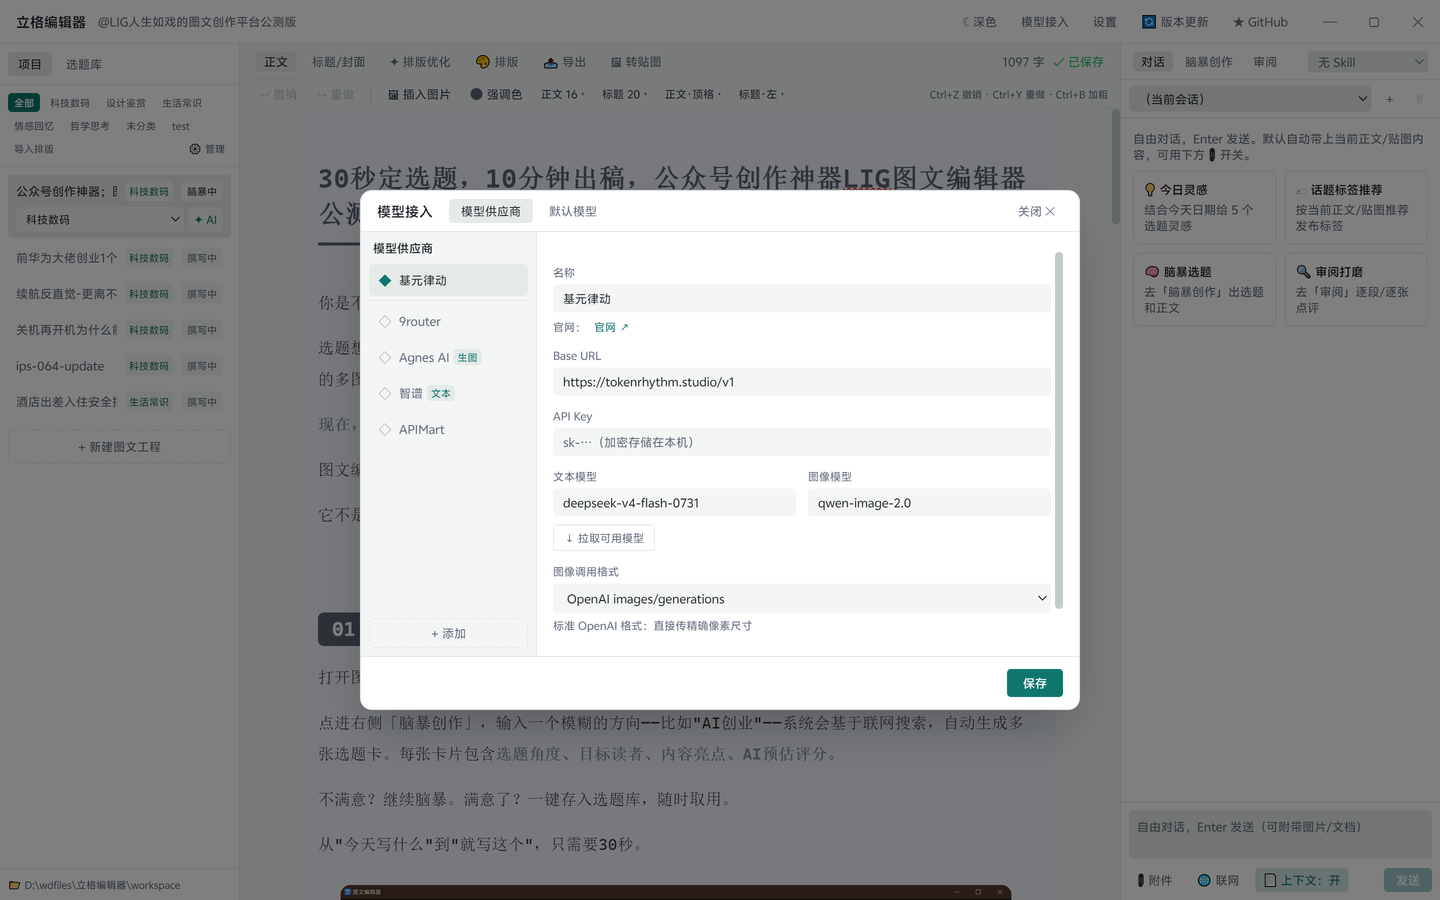
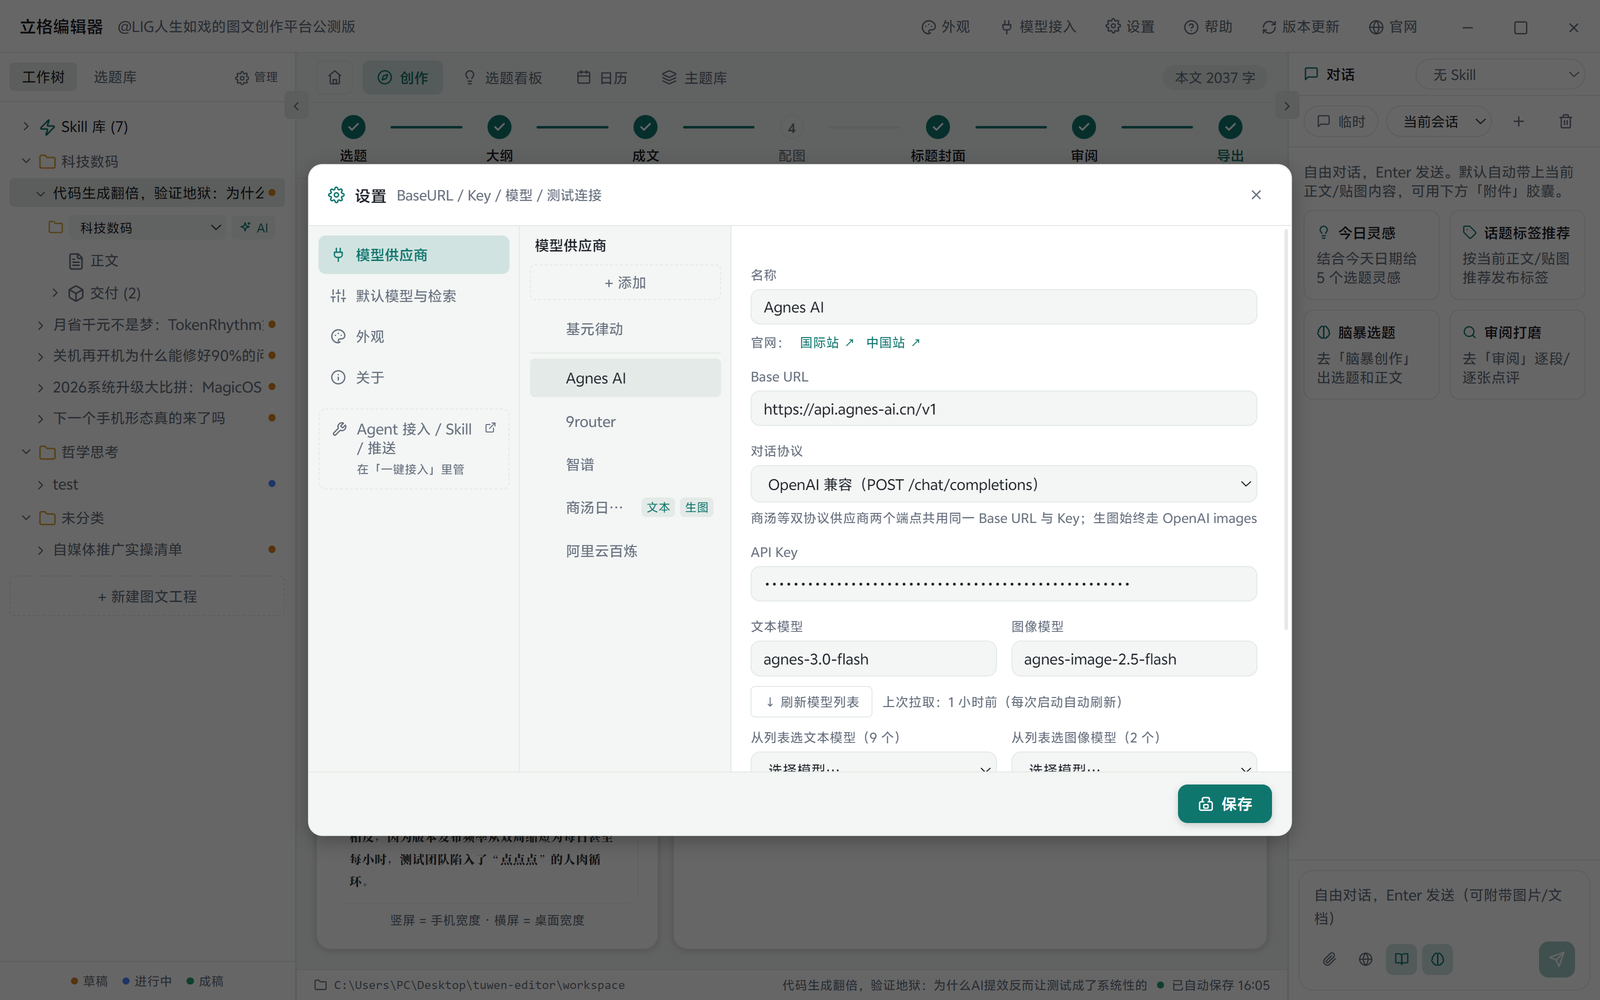
docs(readme): 0.9.0 界面图文换装——重做轮播 GIF 与高清截图
- 轮播 GIF 换成 lig-editor-0.9.0-tour.gif：promo/v0.9.0 的 11 张截图按「工作台→工程墙→主题库→三套日报预览→深色→排版面板→标题封面→模型接入」编排，1440x900、每张 1.4s、1.4MB；两张 3444x1838 宽幅图统一到 1.6 画幅时底部改白底补边（拉伸底边像素会把深色卡片刷成黑带）
- 「查看全部高清截图」换成 10 张 1600px 新截图并改语义英文名；0.8.0 的 main-ui / ideas-titles-review / agent-mcp / xhs-cards / wechat-cards 与旧 tour.gif 移除（Agent MCP 与贴图卡暂无 0.9.0 对应截图，不混用旧界面）
- 特性文字按已发布口径订正：主题库 15 套（7 类内置调性 + 预装日报八套）、全量排版 40 项、模型 OpenAI / Anthropic 双协议与四家供应商模板、预装 Skill 6 个
- docs/site/lig-editor-update.json 同步到 0.9.0，与官网那份保持一致

diff --git a/README.md b/README.md
@@ -9,21 +9,25 @@
 ## 界面一览
 
 <p align="center">
-  <img src="docs/images/lig-editor-0.8.0-tour.gif" width="820" alt="立格编辑器 0.8.0 界面轮播：创作向导七步工作台 / 配图批量清单 / 标题封面 / 对话工具调用" />
+  <img src="docs/images/lig-editor-0.9.0-tour.gif" width="820" alt="立格编辑器 0.9.0 界面轮播：三栏工作台与创作向导 / 工程封面墙 / 主题库与日报排版预览 / 深色外观 / 全量排版 40 项 / 标题封面 / 模型接入" />
 </p>
-<p align="center"><sub>创作向导七步工作台 · 配图批量清单 · 标题封面 · 对话工具调用 · 外观系统</sub></p>
+<p align="center"><sub>三栏工作台 · 工程封面墙 · 主题库 15 套 · 日报排版预览 · 深色外观 · 全量排版 40 项 · 标题封面 · 模型接入</sub></p>
 
 <details>
 <summary>📸 查看全部高清截图</summary>
 <br>
 
-| 三栏工作台（主界面） | 选题库 ＆ 标题 / 审阅 |
+| 三栏工作台 · 创作向导七步 | 工程封面墙（状态 · 字数 · 分类筛选） |
 | :---: | :---: |
-| ![三栏工作台](docs/images/main-ui.png) | ![选题库与审阅](docs/images/ideas-titles-review.png) |
-| **Agent MCP 接入（WorkBuddy 等）** | **开放模型接口** |
-| ![Agent MCP 接入](docs/images/agent-mcp.png) | ![开放模型接口](docs/images/model-providers.png) |
-| **小红书贴图** | **公众号贴图** |
-| ![小红书贴图](docs/images/xhs-cards.png) | ![公众号贴图](docs/images/wechat-cards.png) |
+| ![三栏工作台与创作向导七步](docs/images/workbench-wizard.png) | ![工程封面墙](docs/images/project-wall.png) |
+| **主题库（内置 7 类调性 + 预装日报八套）** | **全量排版面板（40 项逐项可调）** |
+| ![主题库](docs/images/theme-library.png) | ![全量排版面板](docs/images/typography-panel.png) |
+| **排版预览 · 日报01 米白杂志** | **排版预览 · 日报04 赛博霓虹夜** |
+| ![排版预览 日报01 米白杂志](docs/images/preview-daily-01.png) | ![排版预览 日报04 赛博霓虹夜](docs/images/preview-daily-04.png) |
+| **深色外观** | **标题 ＆ 封面工作区** |
+| ![深色外观](docs/images/appearance-dark.png) | ![标题与封面工作区](docs/images/title-cover.png) |
+| **模型接入（OpenAI / Anthropic 双协议）** | **供应商模板一键套用** |
+| ![模型供应商](docs/images/model-providers.png) | ![供应商模板](docs/images/provider-templates.png) |
 
 </details>
 
@@ -32,14 +36,14 @@
 - **本地优先**：工程、素材、密钥全在本机，不上传任何内容到自有服务器
 - **创作向导**：选题→大纲→成文→配图→标题封面→审阅→导出，七步步进工作台，进度自动跟踪
 - **md 直开**：双击 .md 文件 / 把它拖到应用图标直接打开（已在 workspace 内则定位到对应工程，外部 md 自动导入为新工程；portable 版首次使用需「打开方式」指定一次 exe）
-- **AI 副驾驶**：右侧对话面板驱动全流程，接入任意 OpenAI 兼容 API，Skill 体系挂载写作风格；工具调用落地——对话里直接建工程、改正文、配图、排期、导出、推送公众号（推送需确认）
+- **AI 副驾驶**：右侧对话面板驱动全流程，接入任意 OpenAI / Anthropic 兼容 API（四家供应商模板整套带入参数），Skill 体系挂载写作风格（预装 6 个）；工具调用落地——对话里直接建工程、改正文、配图、排期、导出、推送公众号（推送需确认）
 - **Agent 可操控**：MCP + 本地 HTTP 桥，外部编程 Agent（Codex / Qoder 等）可直接操控编辑器
 - **三栏工作台**：左栏工程工作树（工程归档、分类内批量管理）· 中栏所见即所得编辑器（TipTap）· 右栏 AI 副驾驶；分栏宽度拖拽可调、双击折叠，偏好记忆
 - **界面外观**：深浅色跟随系统 + 界面字号小/中/大，顶栏「外观」统一入口
 - **三种配图管线**：代码绘图（HTML→PNG）、AI 文生图、真图抠图，产物统一进 `assets/`
 - **一键推送公众号**：正文本地图片自动上传微信 CDN，草稿直推公众号后台
 - **版本更新提醒**：启动静默检测 + 顶栏手动检查，新版本弹窗直达夸克/百度/GitHub 下载（双更新源：官网 update.json + GitHub Release）
-- **排版主题**：6 套分类预设调性，标题装饰（胶囊/下划线等）、小节序号（01/一、/① 圈号等 6 种）、引用/分隔线/加粗形态、背景色逐项自选，支持导入公众号排版自定义
+- **排版主题**：主题库 15 套随包（7 类内置分类调性 + 预装「日报八套」），一个分类可挂多套随时切换；全量排版 40 项逐项自选——标题装饰（胶囊/下划线等）、小节序号（01/一、/① 圈号等 6 种）、引用/分隔线/加粗形态、纸底与卡片、图片圆角，支持导入公众号排版自定义
 
 ## 下载
 
